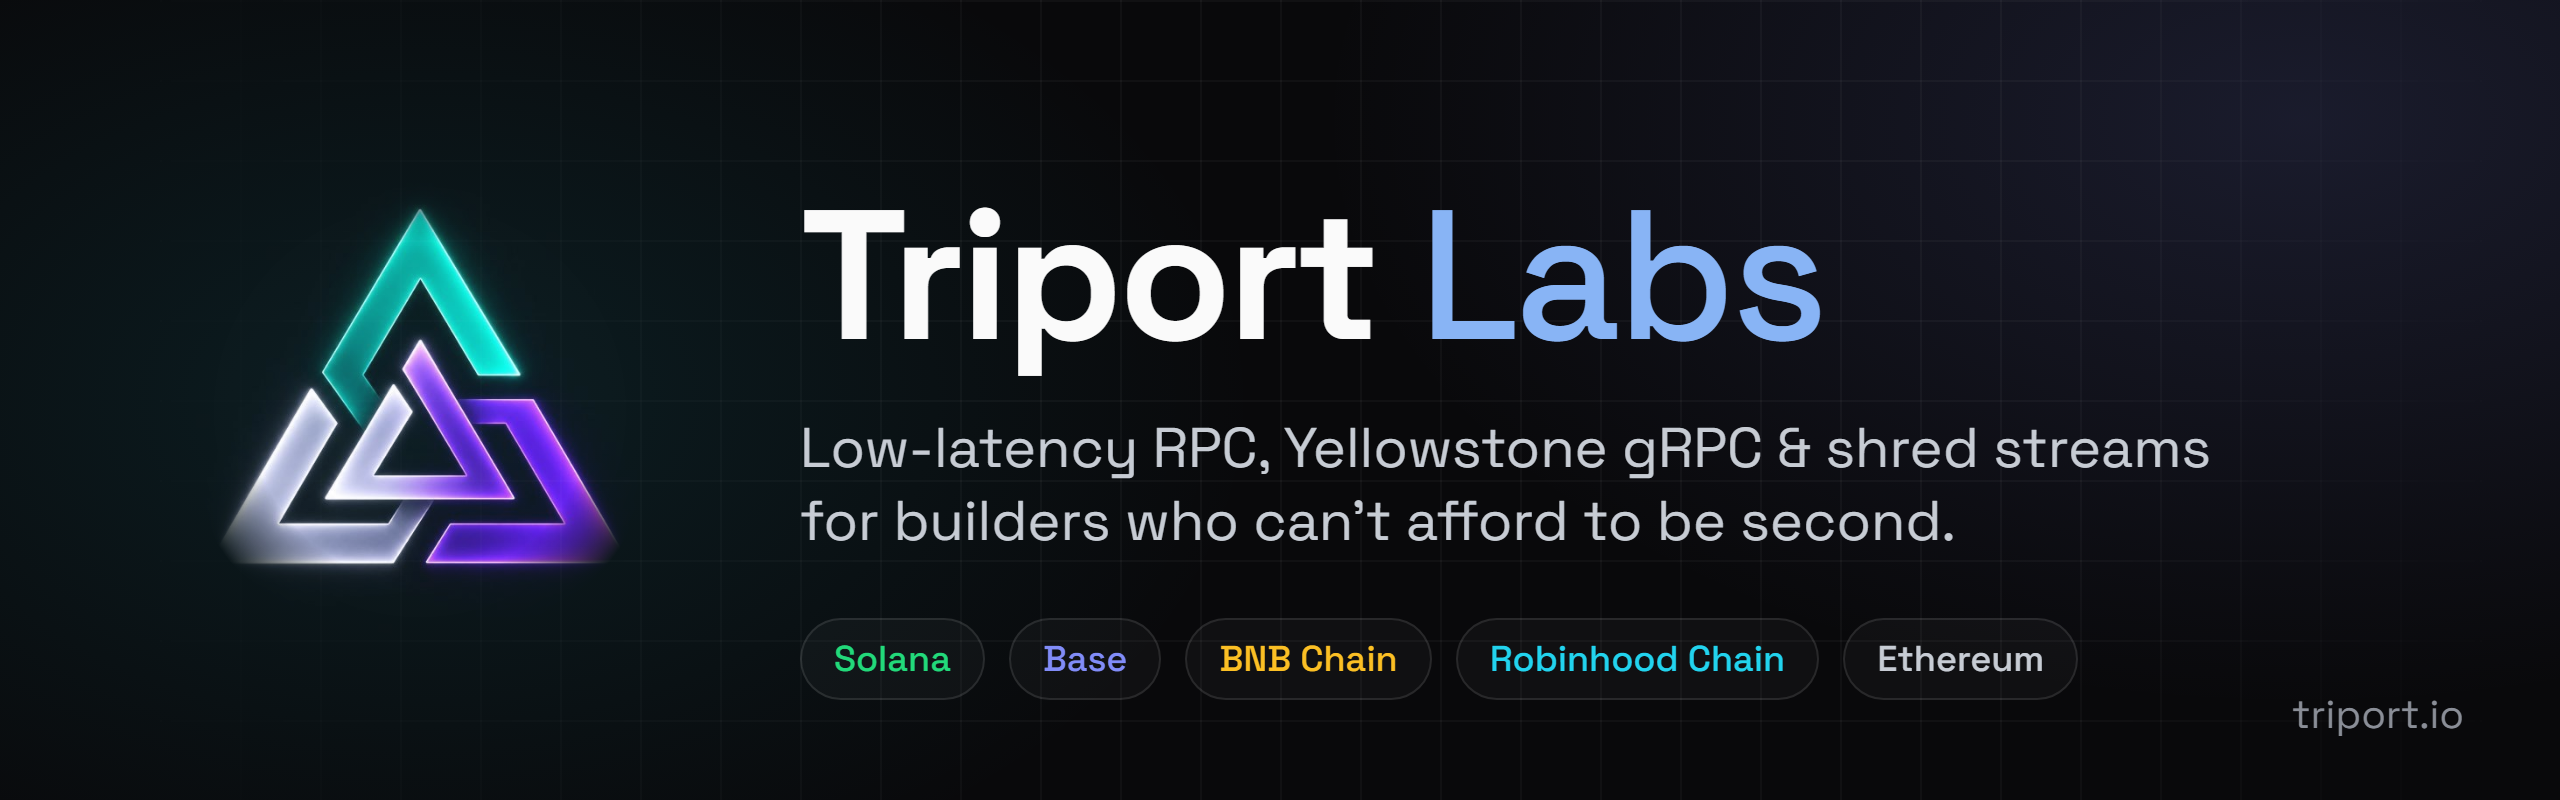
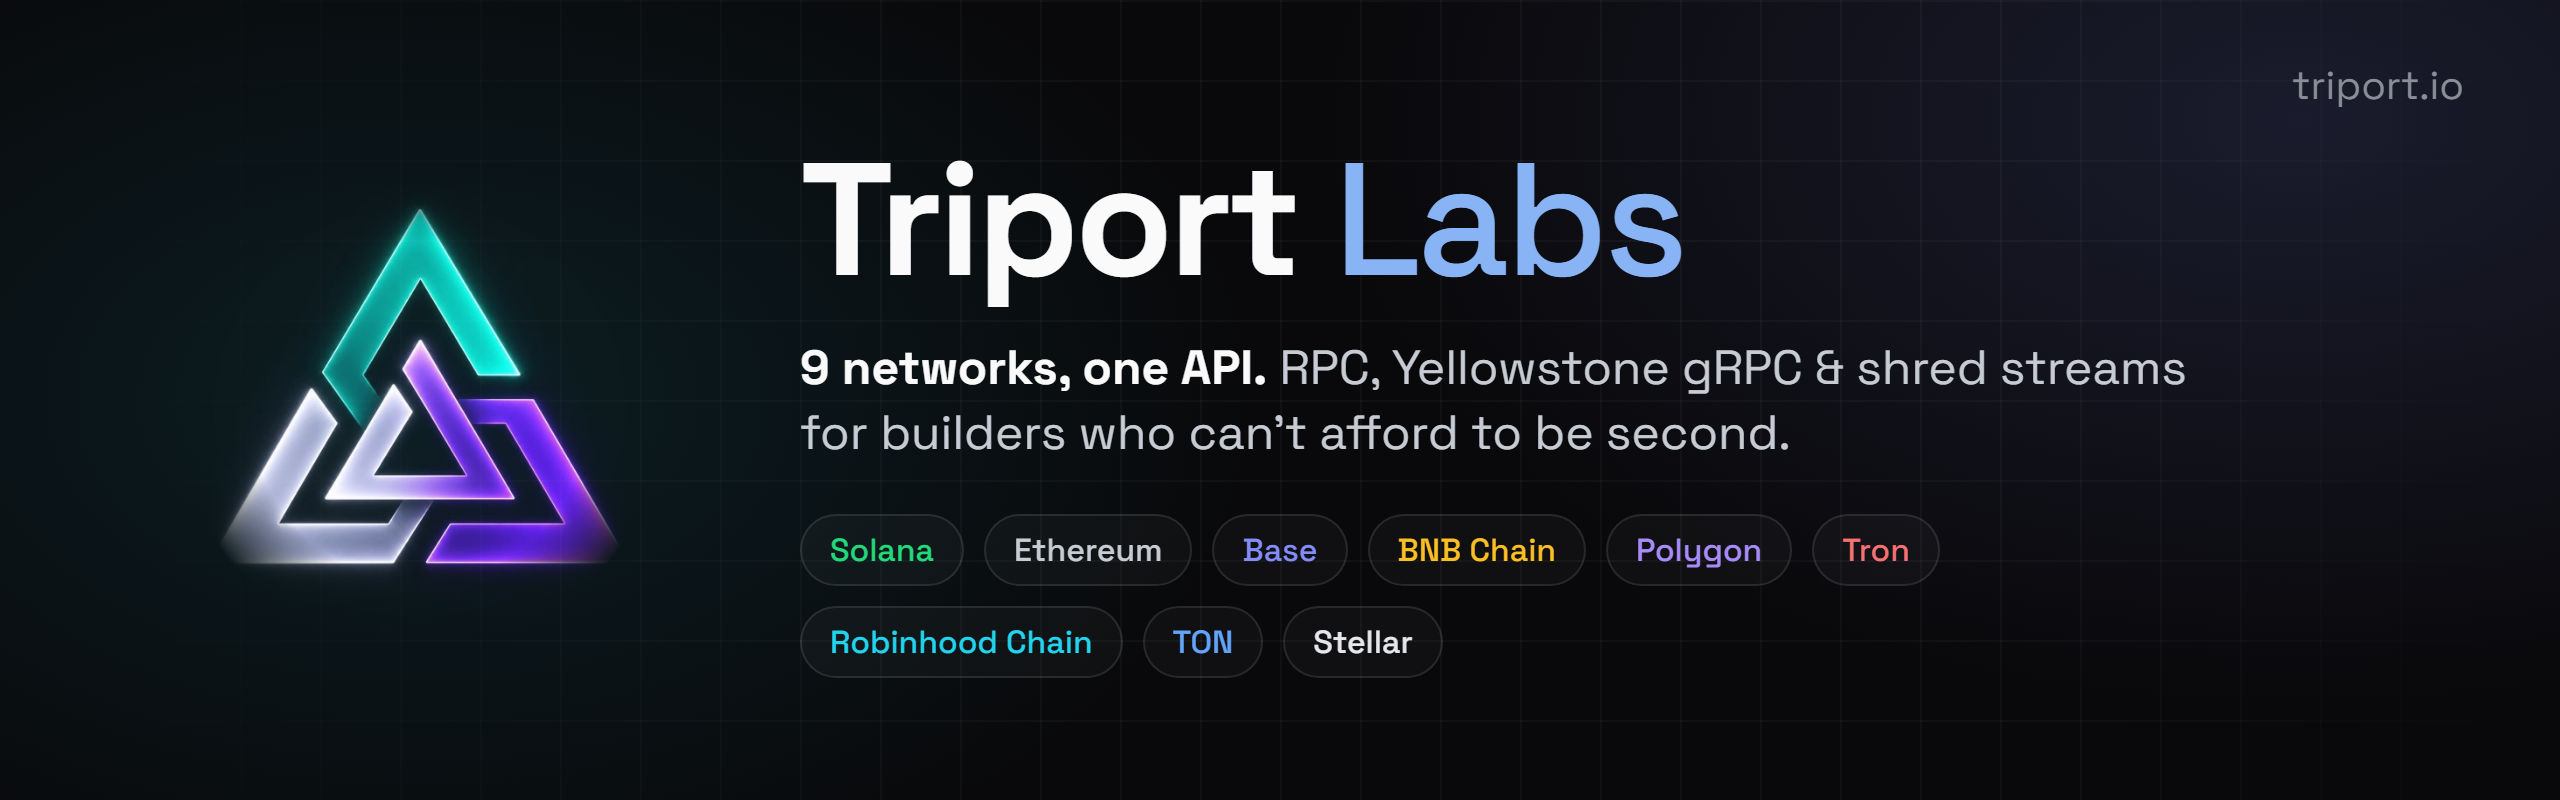
Profile: 9 networks, single links row

diff --git a/profile/README.md b/profile/README.md
@@ -1,26 +1,24 @@
 <p align="center">
-  <a href="https://triport.io"><img src="https://raw.githubusercontent.com/triport-labs/.github/main/profile/assets/banner.png" alt="Triport Labs" width="100%"></a>
+  <img src="https://raw.githubusercontent.com/triport-labs/.github/main/profile/assets/banner.png" alt="Triport Labs" width="100%">
 </p>
-
-<h3 align="center">Low-latency RPC, Yellowstone gRPC &amp; shred streams for Solana, Base, BNB Chain, Robinhood Chain and Ethereum.</h3>
 
 <p align="center">
   <a href="https://triport.io"><img src="https://img.shields.io/badge/Website-triport.io-88b4f5?style=flat-square" alt="Website"></a>
-  <a href="https://triport.io/docs"><img src="https://img.shields.io/badge/Docs-Read_the_docs-22d97a?style=flat-square" alt="Docs"></a>
+  <a href="https://triport.io/docs"><img src="https://img.shields.io/badge/Docs-triport.io%2Fdocs-22d97a?style=flat-square" alt="Docs"></a>
   <a href="https://x.com/triport_io"><img src="https://img.shields.io/badge/X-@triport__io-000000?style=flat-square&logo=x" alt="X"></a>
-  <a href="https://t.me/triport_dev"><img src="https://img.shields.io/badge/Telegram-Community-26A5E4?style=flat-square&logo=telegram&logoColor=white" alt="Telegram"></a>
+  <a href="https://t.me/triport_dev"><img src="https://img.shields.io/badge/Telegram-@triport__dev-26A5E4?style=flat-square&logo=telegram&logoColor=white" alt="Telegram"></a>
   <a href="mailto:sales@triport.io"><img src="https://img.shields.io/badge/Email-sales@triport.io-818cf8?style=flat-square" alt="Email"></a>
 </p>
 
----
+## 9 networks, one API
 
-## What we build
+**Triport** is blockchain infrastructure for teams that care about being first: trading bots, wallets, indexers and dApps. One key gives you all nine networks:
 
-**Triport** is blockchain infrastructure for teams that care about being first: trading bots, wallets, indexers and dApps.
+**Solana · Ethereum · Base · BNB Chain · Polygon · Tron · Robinhood Chain · TON · Stellar**
 
 | | |
 |---|---|
-| **RPC** | JSON-RPC and WebSocket endpoints for Solana, Base, BNB Chain, Robinhood Chain, Ethereum and more |
+| **RPC** | JSON-RPC and WebSocket endpoints on every supported network |
 | **Yellowstone gRPC** | Geyser streams of accounts, transactions, slots and blocks at `grpc.triport.io` |
 | **Shred streams** | Raw Solana shreds, before blocks are assembled |
 | **Transaction sending** | Fan-out `sendTransaction` and Jito bundles |
@@ -28,19 +26,10 @@
 
 ## Get started
 
-1. Create a free key at **[triport.io/app](https://triport.io/app)**
-2. Make your first call:
+Create a free key in the [console](https://triport.io/app), then make your first call:
 
 ```bash
 curl https://triport.io/r/<YOUR_KEY>/sol \
   -H "Content-Type: application/json" \
   -d '{"jsonrpc":"2.0","id":1,"method":"getSlot"}'
 ```
-
-3. Explore the guides at **[triport.io/docs](https://triport.io/docs)**
-
-## Talk to us
-
-- Community and updates: [t.me/triport_dev](https://t.me/triport_dev)
-- Sales and custom plans: [t.me/triport_sales](https://t.me/triport_sales) · [sales@triport.io](mailto:sales@triport.io)
-- News: [x.com/triport_io](https://x.com/triport_io)
